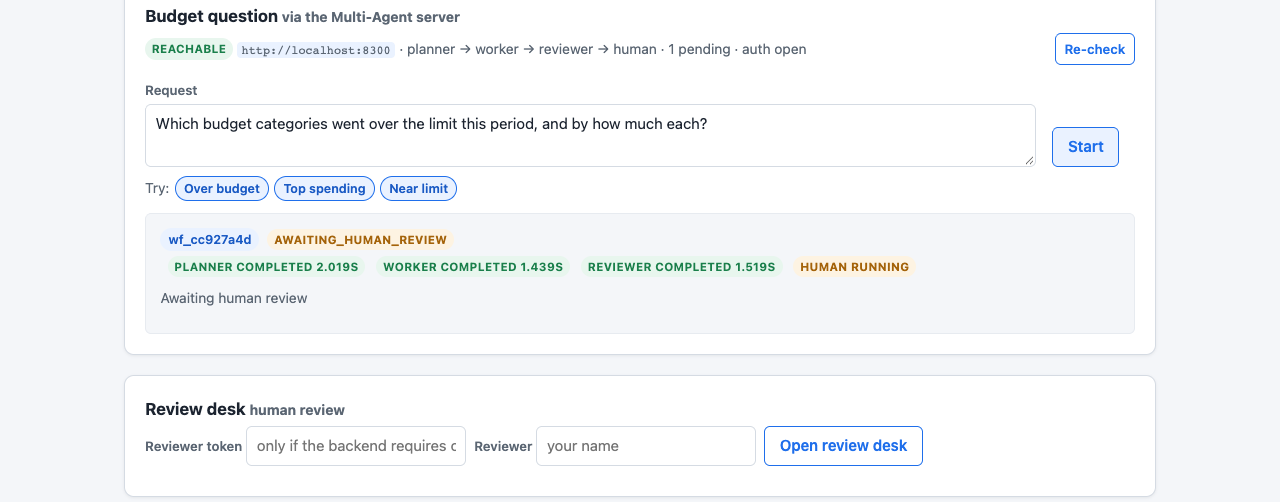
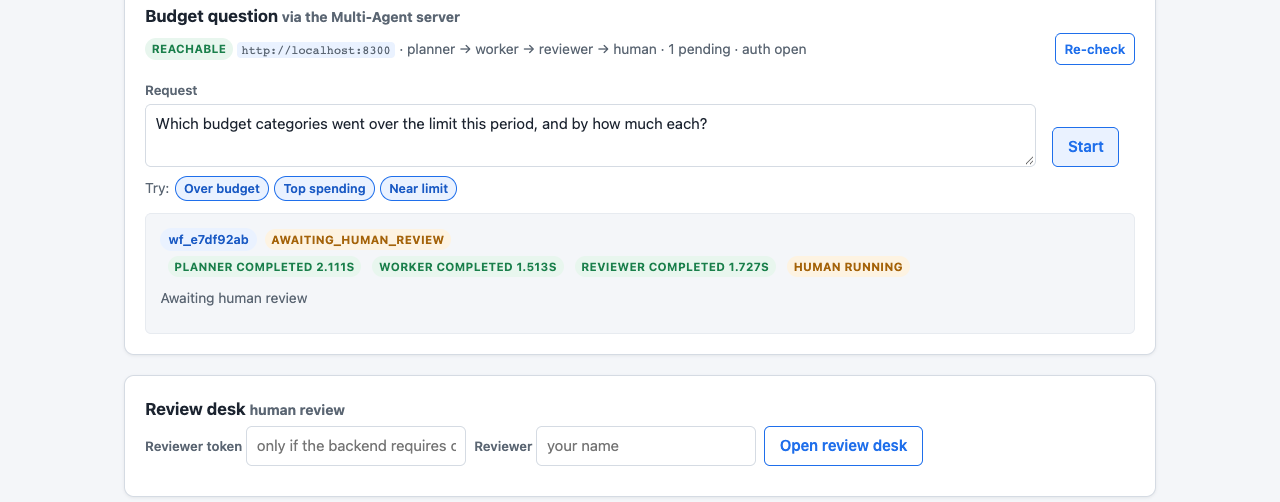
Budgeting: lockable review desk in compose, progress-only poll, safe decision form, retrying cards

Changed region(s): [[0.1562, 0.4482, 0.7188, 0.5378]]

diff --git a/services/budgeting/frontend/tabs/budgets.html b/services/budgeting/frontend/tabs/budgets.html
@@ -335,7 +335,8 @@
               hx-target="#ma-panel"
               hx-swap="innerHTML"
               hx-include="#period-form"
-              hx-indicator="#ma-spinner">
+              hx-indicator="#ma-spinner"
+              hx-disabled-elt="find button[type=submit]">
             <div class="grow">
                 <label for="ma-request">Request</label>
                 <textarea id="ma-request" name="request" maxlength="1000" required
@@ -384,10 +385,11 @@
         <div id="ma-desk-body" class="is-hidden">
             <p class="status-line">
                 <span class="status-text">Pending workflows</span>
-                <button type="button" class="btn btn-secondary btn-small"
+                <button type="button" class="btn btn-secondary btn-small" id="ma-pending-refresh"
                         hx-get="/ui/multi-agent/pending"
                         hx-target="#ma-pending"
                         hx-swap="innerHTML"
+                        hx-trigger="click, ma-decided from:body"
                         hx-indicator="#ma-desk-spinner">Refresh</button>
                 <span id="ma-desk-spinner" class="htmx-indicator spinner">Loading...</span>
             </p>
@@ -406,13 +408,17 @@
 const BUDGETS_API = window.BUDGETS_API || `http://${window.location.hostname}:5004`;
 
 document.body.addEventListener("htmx:configRequest", (event) => {
-    if (event.detail.path.startsWith("/ui/multi-agent/")) {
-        // The review desk's token and the reviewer's name travel as headers; the
-        // backend checks the token on operator routes when one is configured.
+    // Only the review desk's requests carry the reviewer token and name: the
+    // pending list, the desk card and the decision. The customer's own
+    // requests (start, response) never do.
+    const path = event.detail.path;
+    const deskRequest = path === "/ui/multi-agent/pending"
+        || (path.startsWith("/ui/multi-agent/workflows/") && !path.endsWith("/response"));
+    if (deskRequest) {
         const token = document.getElementById("ma-token").value.trim();
         if (token) event.detail.headers["X-Reviewer-Token"] = token;
         const reviewer = document.getElementById("ma-reviewer-name").value.trim();
-        if (reviewer && event.detail.verb === "post") event.detail.parameters["reviewer"] = reviewer;
+        if (reviewer && path.endsWith("/decision")) event.detail.parameters["reviewer"] = reviewer;
     }
     if (event.detail.path.startsWith("/ui/")) {
         event.detail.path = BUDGETS_API + event.detail.path;

diff --git a/services/budgeting/backend/tests/test_multi_agent_client.py b/services/budgeting/backend/tests/test_multi_agent_client.py
@@ -114,7 +114,11 @@ class FakeServer:
         if (method, path) == ("POST", "/workflow"):
             return 202, {**SUMMARY_AWAITING, "state": "created", "stages": [], "links": {}}
         if path == f"/workflow/{WID}/status":
-            return 200, {**SUMMARY_AWAITING, "state": self.state}
+            summary = {**SUMMARY_AWAITING, "state": self.state, "decision": self.decision,
+                       "released": bool(self.decision and self.decision["decision"] != "reject")}
+            if self.state == "failed":
+                summary["error"] = "worker: no feature API answered: budgeting service unavailable: connection refused at http://localhost:5004/api/budgets/summary"
+            return 200, summary
         if path == f"/workflow/{WID}":
             full = {**FULL_AWAITING, "state": self.state}
             if self.state == "failed":
@@ -480,7 +484,53 @@ def test_start_fragment_returns_the_customer_card_which_polls_the_response():
         fake.state = "failed"
         fake.decision = None
         page = c.get(f"/ui/multi-agent/workflows/{WID}/response").get_data(as_text=True)
-        assert "could not be completed" in page and "budgeting service unavailable" not in page
+        assert "could not be completed" in page and "budgeting service unavailable" not in page and "localhost:5004" not in page
+
+
+def test_poll_route_returns_progress_only():
+    with _env(MULTI_AGENT_ENABLED="true"), _stub(FakeServer()) as fake:
+        c = _client()
+        c.post(f"/api/multi-agent/workflows/{WID}/decision", headers=HX, json={"decision": "reject", "note": "private reason", "reviewer": "Bao"})
+        body = c.get(f"/api/multi-agent/workflows/{WID}").get_json()
+        assert set(body) == {"workflow_id", "feature", "state", "created_at", "updated_at", "stages", "decision", "released", "failed"}
+        assert body["decision"] == "reject" and body["released"] is False and body["failed"] is False
+        assert body["stages"][0] == {"role": "planner", "status": "completed", "duration_seconds": 2.1}
+        text = str(body)
+        assert "private reason" not in text and "Bao" not in text and "budgeting-ui" not in text and "model" not in text
+        fake.state, fake.decision = "failed", None
+        body = c.get(f"/api/multi-agent/workflows/{WID}").get_json()
+        assert body["failed"] is True and "budgeting service unavailable" not in str(body) and "localhost" not in str(body)
+
+
+def test_temporary_failures_keep_the_card_polling():
+    def down(method, path, body=None):
+        raise ma.MultiAgentUnreachable("Multi-Agent Server at http://localhost:8300/x refused the connection - start it")
+    with _env(MULTI_AGENT_ENABLED="true"), _stub(down):
+        c = _client()
+        page = c.get(f"/ui/multi-agent/workflows/{WID}/response").get_data(as_text=True)
+        assert f'id="ma-customer-{WID}"' in page and "retrying" in page and 'hx-trigger="every 5s"' in page
+        assert f'hx-get="/ui/multi-agent/workflows/{WID}/response"' in page and "Checking again" in page
+        page = c.get(f"/ui/multi-agent/workflows/{WID}").get_data(as_text=True)
+        assert f'id="ma-{WID}"' in page and "retrying" in page and f'hx-get="/ui/multi-agent/workflows/{WID}"' in page
+    with _env(MULTI_AGENT_ENABLED="true"), _stub(lambda m, p, b=None: (500, {"error": "boom"})):
+        page = _client().get(f"/ui/multi-agent/workflows/{WID}/response").get_data(as_text=True)
+        assert "retrying" in page and "boom" not in page
+    with _env(MULTI_AGENT_ENABLED="true"), _stub(lambda m, p, b=None: (404, {"error": f"unknown workflow '{WID}'"})):
+        page = _client().get(f"/ui/multi-agent/workflows/{WID}/response").get_data(as_text=True)
+        assert "retrying" not in page and "unknown workflow" in page              # gone for good: no point polling
+
+
+def test_decision_fragment_refreshes_the_pending_list_and_has_no_name_box():
+    with _env(MULTI_AGENT_ENABLED="true"), _stub(FakeServer()):
+        c = _client()
+        card = c.get(f"/ui/multi-agent/workflows/{WID}").get_data(as_text=True)
+        assert 'name="reviewer"' not in card and 'hx-disabled-elt="find button"' in card
+        assert card.count('type="submit"') == 3 and "<input" not in card.split("decision-form")[1]   # only the textarea: Enter cannot submit
+        r = c.post(f"/ui/multi-agent/workflows/{WID}/decision", headers=HX, data={"decision": "accept", "reviewer": "Bao"})
+        assert r.status_code == 200 and r.headers.get("HX-Trigger") == "ma-decided"
+        assert "budgeting-ui:Bao" in r.get_data(as_text=True).lower().replace("bao", "Bao")
+        r = c.post(f"/ui/multi-agent/workflows/{WID}/decision", headers=HX, data={"decision": "reject"})
+        assert r.headers.get("HX-Trigger") is None                                   # a refused decision changes nothing
 
 
 def test_pending_fragment_lists_budgeting_workflows_for_the_desk():
@@ -504,6 +554,7 @@ def test_frontend_tab_wires_the_multi_agent_panel_and_desk():
         'hx-get="/ui/multi-agent/status"', 'hx-post="/ui/multi-agent/workflows"', 'hx-get="/ui/multi-agent/pending"',
         'id="ma-panel"', 'id="ma-desk"', 'id="ma-desk-card"', 'id="ma-pending"', 'name="request"', 'maxlength="1000"',
         'hx-include="#period-form"', 'id="ma-token"', 'X-Reviewer-Token', 'id="ma-reviewer-name"', "ma-chip",
+        'hx-disabled-elt="find button[type=submit]"', 'hx-trigger="click, ma-decided from:body"', 'id="ma-pending-refresh"',
     ):
         assert needle in html, needle
     assert 'hx-post="/ui/multi-agent/workflows"' in html.split('id="ma-desk"')[0]      # the start form is the customer part

diff --git a/services/budgeting/backend/routes/ui.py b/services/budgeting/backend/routes/ui.py
@@ -10,7 +10,7 @@ import re
 from datetime import date
 from html import escape
 
-from flask import Blueprint, request
+from flask import Blueprint, make_response, request
 
 from routes.agents import decided_by, operator_check
 from services import database_api, insight_service, mcp_client, multi_agent_client, rag_client, transactions_client
@@ -748,8 +748,8 @@ def _decision_form(workflow_id):
       <section class="ma-section">
         <h4>Decision</h4>
         <form class="decision-form" hx-post="/ui/multi-agent/workflows/{workflow_id}/decision"
-              hx-target="closest article" hx-swap="outerHTML" hx-indicator="closest article">
-          <input type="text" name="reviewer" maxlength="60" placeholder="Reviewer name">
+              hx-target="closest article" hx-swap="outerHTML" hx-indicator="closest article"
+              hx-disabled-elt="find button">
           <textarea name="note" rows="2" maxlength="{multi_agent_client.MAX_NOTE_CHARS}" placeholder="Correction note (required for partially accept)"></textarea>
           <div class="form-actions">{buttons} <span class="htmx-indicator muted">Sending</span></div>
         </form>
@@ -805,11 +805,28 @@ def _workflow_card(full, message=""):
     </article>"""
 
 
+def _retry_card(workflow_id, path, exc):
+    """A temporary failure (server down or failing) keeps the card, its id and
+    its polling, so the workflow is not lost from the page."""
+    workflow_id = escape(str(workflow_id))
+    return f"""
+    <article class="insight-card ma-card" id="ma-{'customer-' if path.endswith('/response') else ''}{workflow_id}"
+             hx-get="/ui/multi-agent/workflows/{workflow_id}{path}" hx-trigger="every 5s" hx-swap="outerHTML">
+      <div class="history-head"><span class="chip">{workflow_id}</span><span class="badge badge-near">retrying</span></div>
+      <p class="alert alert-warn">{escape(str(exc).rstrip('.'))}. Checking again.</p>
+    </article>"""
+
+
+def _temporary(exc):
+    return isinstance(exc, multi_agent_client.MultiAgentUnreachable) or (
+        isinstance(exc, multi_agent_client.MultiAgentError) and exc.status >= 500)
+
+
 def _load_card(workflow_id, message=""):
     try:
         full = multi_agent_client.workflow(workflow_id)
     except _MA_ERRORS as exc:
-        return _ma_alert(exc)
+        return _retry_card(workflow_id, "", exc) if _temporary(exc) else _ma_alert(exc)
     if not multi_agent_client.is_budgeting(full):
         return _alert(f"Unknown budgeting workflow {workflow_id}.", "warn")
     return _workflow_card(full, message)
@@ -863,7 +880,7 @@ def _load_customer_card(workflow_id):
     try:
         summary = multi_agent_client.workflow_status(workflow_id)
     except _MA_ERRORS as exc:
-        return _ma_alert(exc)
+        return _retry_card(workflow_id, "/response", exc) if _temporary(exc) else _ma_alert(exc)
     if not multi_agent_client.is_budgeting(summary):
         return _alert(f"Unknown budgeting workflow {escape(str(workflow_id))}.", "warn")
     final = None
@@ -871,10 +888,14 @@ def _load_customer_card(workflow_id):
         try:
             final = multi_agent_client.customer_view(multi_agent_client.response(workflow_id))
         except multi_agent_client.MultiAgentError as exc:
-            if exc.status != 409:
+            if exc.status == 409:
+                pass
+            elif _temporary(exc):
+                return _retry_card(workflow_id, "/response", exc)
+            else:
                 return _ma_alert(exc)
         except _MA_ERRORS as exc:
-            return _ma_alert(exc)
+            return _retry_card(workflow_id, "/response", exc) if _temporary(exc) else _ma_alert(exc)
     return _customer_card(summary, final)
 
 
@@ -976,4 +997,6 @@ def multi_agent_decision_fragment(workflow_id):
         return _ma_alert(exc)
     except _MA_ERRORS as exc:
         return _ma_alert(exc)
-    return _load_card(workflow_id)
+    response = make_response(_load_card(workflow_id))
+    response.headers["HX-Trigger"] = "ma-decided"          # the desk's pending list refreshes itself
+    return response

diff --git a/services/budgeting/backend/routes/agents.py b/services/budgeting/backend/routes/agents.py
@@ -14,7 +14,7 @@ error rather than a stack trace.
 Release 2, the shared Multi-Agent Server (Planner -> Worker -> Reviewer -> human):
 
     POST /api/multi-agent/workflows                  {"request", "customer_id"?, "month"?, "year"?} -> 202 summary
-    GET  /api/multi-agent/workflows/<id>             summary, for polling (budgeting workflows only)
+    GET  /api/multi-agent/workflows/<id>             progress only, for polling (budgeting workflows only)
     GET  /api/multi-agent/workflows/<id>/review-panel plan, result and review: operator only
     POST /api/multi-agent/workflows/<id>/decision    {"decision": accept|partially_accept|reject, "note"?, "reviewer"?}: operator only
     GET  /api/multi-agent/workflows/<id>/response    the approved answer only; 409 until the decision is made
@@ -279,7 +279,7 @@ def multi_agent_workflow_status(workflow_id):
         summary = multi_agent_client.workflow_status(workflow_id)
     except _MA_ERRORS as exc:
         return _integration_error(exc)
-    return _budgeting_only(summary) or jsonify(summary)
+    return _budgeting_only(summary) or jsonify(multi_agent_client.customer_summary(summary))
 
 
 @agents_bp.get("/api/multi-agent/workflows/<workflow_id>/review-panel")

diff --git a/services/budgeting/backend/services/multi_agent_client.py b/services/budgeting/backend/services/multi_agent_client.py
@@ -216,6 +216,24 @@ def response(workflow_id: str) -> dict[str, Any]:
     return payload
 
 
+def customer_summary(summary: dict[str, Any]) -> dict[str, Any]:
+    """The poll view for the person who asked: progress only. The reviewer's
+    name, a rejection note and internal error text stay on the operator side."""
+    decision = summary.get("decision") or {}
+    return {
+        "workflow_id": summary.get("workflow_id"),
+        "feature": summary.get("feature"),
+        "state": summary.get("state"),
+        "created_at": summary.get("created_at"),
+        "updated_at": summary.get("updated_at"),
+        "stages": [{"role": s.get("role"), "status": s.get("status"), "duration_seconds": s.get("duration_seconds")}
+                   for s in summary.get("stages") or []],
+        "decision": decision.get("decision"),
+        "released": bool(summary.get("released")),
+        "failed": summary.get("state") == "failed",
+    }
+
+
 def customer_view(final: dict[str, Any]) -> dict[str, Any]:
     """What a customer may receive: the approved answer, nothing about the review.
 

diff --git a/services/budgeting/backend/app.py b/services/budgeting/backend/app.py
@@ -31,7 +31,7 @@ def allowed_origins():
 
 def create_app():
     app = Flask(__name__)
-    CORS(app, origins=allowed_origins())
+    CORS(app, origins=allowed_origins(), expose_headers=["HX-Trigger"])
 
     app.register_blueprint(budgets_bp)
     app.register_blueprint(insights_bp)

diff --git a/docs/multi-agent-integration.md b/docs/multi-agent-integration.md
@@ -43,7 +43,7 @@ Copy the Release 2 block at the end of `services/budgeting/backend/routes/agents
 | Route | Who | Notes |
 |---|---|---|
 | `POST /api/multi-agent/workflows` | panel | needs the `HX-Request` or `X-Requested-With` header |
-| `GET /api/multi-agent/workflows/<id>` | panel | poll; your feature's workflows only |
+| `GET /api/multi-agent/workflows/<id>` | panel | poll: progress only (`customer_summary`), no reviewer name, note or error text |
 | `GET /api/multi-agent/workflows/<id>/review-panel` | operator | plan, result, review |
 | `POST /api/multi-agent/workflows/<id>/decision` | operator | `decision`, `note`, `reviewer`; recorded as `<feature>-ui:<reviewer>` |
 | `GET /api/multi-agent/workflows/<id>/response` | customer | the customer view; 409 until decided |
@@ -67,8 +67,11 @@ the token header and the reviewer name. The customer card polls
 Compose already passes `MULTI_AGENT_ENABLED`, `MULTI_AGENT_SERVER_URL` and
 `MULTI_AGENT_API_TOKEN` to every backend through the `x-llm-env` anchor. Add
 the two defaults to your Dockerfile (`MULTI_AGENT_ENABLED=true`,
-`MULTI_AGENT_SERVER_URL=http://host.docker.internal:8300`) and set
-`MULTI_AGENT_ENABLED: "false"` in your CI jobs so no test ever calls the server.
+`MULTI_AGENT_SERVER_URL=http://host.docker.internal:8300`), pass your own
+`<FEATURE>_REVIEWER_TOKEN` and `<FEATURE>_FRONTEND_ORIGINS` into your service's
+compose block the way budgeting-service and fraud-service do (otherwise the desk
+cannot be locked in Docker), and set `MULTI_AGENT_ENABLED: "false"` in your CI
+jobs so no test ever calls the server.
 
 ## 6. Tests
 

diff --git a/docs/release-2/multi-agent/budgeting/README.md b/docs/release-2/multi-agent/budgeting/README.md
@@ -8,9 +8,11 @@ on 8300, Gemini as the model, `BUDGET_REVIEWER_TOKEN` set on the API).
 | File | What it shows |
 |---|---|
 | `ui-1-customer-awaiting.png` | the customer card after Start: stage badges, then "Awaiting human review"; no plan, findings or review |
-| `ui-2-review-desk.png` | the review desk opened with the reviewer token and name: the pending list and the desk card with the decision form |
+| `ui-2-review-desk.png` | the desk card for the waiting workflow: plan, evidence, findings, review and the decision form |
 | `ui-3-customer-released.png` | the customer card after a partial accept: the released answer, the correction, the findings and the evidence endpoints |
 
-The same flow is checked in `services/budgeting/backend/tests/test_multi_agent_client.py`
+The browser run also checks that a double click on Start creates one workflow, that Enter in
+the note box decides nothing, that only the desk's requests carry the reviewer token and name,
+and that the pending list refreshes itself after a decision. The same flow is checked in `services/budgeting/backend/tests/test_multi_agent_client.py`
 (fragments) and `tests/test_multi_agent_contract.py` (against the real server
 app). The validation record for the server itself is under `docs/evidence/`.
